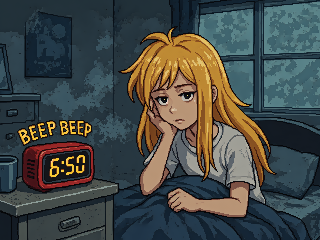
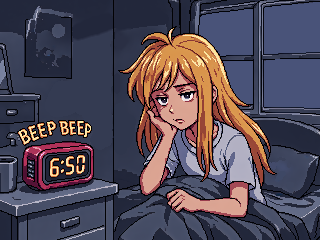
refactor: enhance dither functionality and add aperture support in rendering pipeline

diff --git a/src/bmsx/render/2d/sprites_pipeline.ts b/src/bmsx/render/2d/sprites_pipeline.ts
@@ -71,6 +71,7 @@ const spriteShaderData = {
 };
 let spriteShaderScaleLocation: WebGLUniformLocation;
 let spriteShaderDitherIntensityLocation: WebGLUniformLocation;
+let spriteShaderDitherEnabledLocation: WebGLUniformLocation;
 
 interface SpriteRuntime {
 	backend: WebGLBackend;
@@ -104,14 +105,17 @@ export function setupSpriteShaderLocations(backend: GPUBackend): void {
 	texture2Location = gl.getUniformLocation(spriteShaderProgram, 'u_texture2')!;
 	spriteShaderScaleLocation = gl.getUniformLocation(spriteShaderProgram, 'u_scale');
 	spriteShaderDitherIntensityLocation = gl.getUniformLocation(spriteShaderProgram, 'u_ditherIntensity')!;
+	spriteShaderDitherEnabledLocation = gl.getUniformLocation(spriteShaderProgram, 'u_ditherEnabled')!;
 }
 
-export function setupDefaultUniformValues(backend: WebGLBackend, defaultScale: number, canvasSize: vec2arr, ditherIntensity: number): void {
+export function setupDefaultUniformValues(backend: WebGLBackend, canvasSize: vec2arr): void {
 	const gl = backend.gl;
 	gl.useProgram(spriteShaderProgram);
-	gl.uniform1f(spriteShaderScaleLocation, defaultScale);
-	gl.uniform1f(spriteShaderDitherIntensityLocation, ditherIntensity);
-	spriteShaderData.resolutionVector.set([canvasSize[0], canvasSize[1]]);
+	gl.uniform1f(spriteShaderScaleLocation, 1);
+	gl.uniform1f(spriteShaderDitherIntensityLocation, 1);
+	gl.uniform1f(spriteShaderDitherEnabledLocation, 1);
+	spriteShaderData.resolutionVector[0] = canvasSize[0];
+	spriteShaderData.resolutionVector[1] = canvasSize[1];
 	gl.uniform2fv(resolutionLocation, spriteShaderData.resolutionVector);
 	gl.uniform1i(texture0Location, TEXTURE_UNIT_ATLAS);
 	gl.uniform1i(texture1Location, TEXTURE_UNIT_ATLAS_DYNAMIC);
@@ -168,15 +172,36 @@ export function renderSpriteBatch(runtime: SpriteRuntime, fbo: unknown, state: S
 	gl.blendFunc(gl.SRC_ALPHA, gl.ONE_MINUS_SRC_ALPHA);
 	gl.depthMask(false);
 	backend.bindVertexArray(spriteVAO as WebGLVertexArrayObject);
-	const baseScale = 1;
-	const ideScale = state.viewportTypeIde === 'viewport' ? baseScale : baseScale * (state.baseWidth / state.width);
-	setupDefaultUniformValues(backend, baseScale, [state.baseWidth, state.baseHeight], state.psxDither2dEnabled ? 1 : 0);
-	let currentScale = baseScale;
+
+	const program = gl.getParameter(gl.CURRENT_PROGRAM);
+
+	const u = (n: string) => gl.getUniformLocation(program, n);
+	const set1i = (n: string, v: number) => { const loc = u(n); gl.uniform1i(loc, v); };
+	const set1f = (n: string, v: number) => { const loc = u(n); gl.uniform1f(loc, v); };
+	// const set2f = (n: string, x: number, y: number) => { const loc = u(n); gl.uniform2f(loc, x, y); };
+
+	// Legacy fallback uniform for shader paths where FrameUniforms.u_logicalSize is not available.
+	spriteShaderData.resolutionVector[0] = state.baseWidth;
+	spriteShaderData.resolutionVector[1] = state.baseHeight;
+	gl.uniform2fv(resolutionLocation, spriteShaderData.resolutionVector);
+
+	const ideScale = state.viewportTypeIde === 'viewport' ? 1 : (state.baseWidth / state.width);
+	let currentScale = 1;
 	const setScale = (scale: number) => {
 		if (scale === currentScale) return;
-		gl.uniform1f(spriteShaderScaleLocation, scale);
+		set1f('u_scale', scale);
 		currentScale = scale;
 	};
+
+	// const opts = state.options;
+	// const booleans: Array<[string, boolean]> = [
+	// ];
+	// for (const [name, val] of booleans) gl.uniform1i(u(name), val ? 1 : 0);
+
+	set1i('u_ditherEnabled', state.psxDither2dEnabled ? 1 : 0);
+	set1f('u_ditherIntensity', state.psxDither2dIntensity);
+
+
 	if (state.atlasTex) {
 		context.activeTexUnit = TEXTURE_UNIT_ATLAS;
 		context.bind2DTex(state.atlasTex);
@@ -207,7 +232,7 @@ export function renderSpriteBatch(runtime: SpriteRuntime, fbo: unknown, state: S
 		i = 0;
 	};
 	forEachSprite(({ options, imgmeta }) => {
-		const desiredScale = options.layer === 'ide' ? ideScale : baseScale;
+		const desiredScale = options.layer === 'ide' ? ideScale : 1;
 		if (desiredScale !== currentScale) {
 			flush();
 			setScale(desiredScale);
@@ -253,7 +278,6 @@ export function drawImg(options: ImgRenderSubmission): void {
 	enqueueSprite(options, imgmeta);
 }
 
-export function getQueuedSpriteCount(): number { return spriteQueueBackSize(); }
 export function getSpriteQueueDebug(): { front: number; back: number } { return { front: spriteQueueFrontSize(), back: spriteQueueBackSize() }; }
 
 export function getTexCoords(flip_h: boolean, flip_v: boolean, imgmeta: ImgMeta): number[] {
@@ -354,12 +378,13 @@ export function registerSpritesPass_WebGL(registry: RenderPassLibrary): void {
 			const build = makePipelineBuildDesc('Sprites2D', vs, fs);
 			return { vsCode: build.vsCode, fsCode: build.fsCode, bindingLayout: build.bindingLayout };
 		})(),
-		bootstrap: (backend: WebGLBackend) => {
-			const webglBackend = backend;
-			setupSpriteShaderLocations(webglBackend);
-			setupBuffers(webglBackend);
-			setupSpriteLocations(webglBackend);
-		},
+			bootstrap: (backend: WebGLBackend) => {
+				const webglBackend = backend;
+				setupSpriteShaderLocations(webglBackend);
+				setupBuffers(webglBackend);
+				setupSpriteLocations(webglBackend);
+				setupDefaultUniformValues(backend, [$.view.viewportSize.x, $.view.viewportSize.y]);
+			},
 		writesDepth: true,
 		shouldExecute: () => true,
 		exec: (backend: WebGLBackend, fbo, state: SpritesPipelineState) => {
@@ -399,6 +424,7 @@ export function registerSpritesPass_WebGL(registry: RenderPassLibrary): void {
 				ambientIntensity,
 				viewportTypeIde: gv.viewportTypeIde,
 				psxDither2dEnabled: gv.psx_dither_2d_enabled,
+				psxDither2dIntensity: gv.psx_dither2d_intensity,
 			};
 			registry.setState('sprites', spriteState);
 			// Validate binding layout vs resources

diff --git a/src/bmsx/render/gameview.ts b/src/bmsx/render/gameview.ts
@@ -199,12 +199,14 @@ export class GameView implements RegisterablePersistent, RenderContext {
 	public applyBlur = true;
 	public applyGlow = true;
 	public applyFringing = true;
+	public applyAperture = true;
 	public noiseIntensity = 0.4;
 	public colorBleed: [number, number, number] = [0.02, 0.0, 0.0];
 	public blurIntensity = 0.6;
 	public glowColor: [number, number, number] = [0.12, 0.10, 0.09];
 	public crt_postprocessing_enabled = true; // Whether to apply postprocessing in the CRT-shader, such as scanlines, noise, glow, etc.
 	public psx_dither_2d_enabled = true;
+	public psx_dither2d_intensity = 1.0;
 	// public psx_dither_3d_enabled = false; TODO: JUST ADDED AND WE'LL USE IT LATER!
 
 	// Sprite ambient defaults (used when per-sprite override not provided)

diff --git a/src/bmsx/render/backend/renderpasslib.ts b/src/bmsx/render/backend/renderpasslib.ts
@@ -358,6 +358,7 @@ export class RenderPassLibrary {
 								applyBlur: !!gv.applyBlur,
 								applyGlow: !!gv.applyGlow,
 								applyFringing: !!gv.applyFringing,
+								applyAperture: !!gv.applyAperture,
 								noiseIntensity: gv.noiseIntensity,
 								colorBleed: gv.colorBleed,
 								blurIntensity: gv.blurIntensity,
@@ -369,6 +370,7 @@ export class RenderPassLibrary {
 								applyBlur: false,
 								applyGlow: false,
 								applyFringing: false,
+								applyAperture: false,
 								noiseIntensity: gv.noiseIntensity, // Will be unused
 								colorBleed: gv.colorBleed, // Will be unused
 								blurIntensity: gv.blurIntensity, // Will be unused

diff --git a/src/bmsx/render/post/crt_pipeline.ts b/src/bmsx/render/post/crt_pipeline.ts
@@ -81,7 +81,8 @@ function bindCRTUniforms(gl: WebGL2RenderingContext, state: RenderPassStateRegis
 		['u_applyScanlines', opts.applyScanlines],
 		['u_applyBlur', opts.applyBlur],
 		['u_applyGlow', opts.applyGlow],
-		['u_applyFringing', opts.applyFringing]
+		['u_applyFringing', opts.applyFringing],
+		['u_applyAperture', opts.applyAperture]
 	];
 	for (const [name, val] of booleans) gl.uniform1i(u(name), val ? 1 : 0);
 	set1f('u_noiseIntensity', opts.noiseIntensity);

diff --git a/src/bmsx/render/backend/pipeline_interfaces.ts b/src/bmsx/render/backend/pipeline_interfaces.ts
@@ -265,6 +265,7 @@ export interface SpritesPipelineState {
 	ambientIntensity: number;
 	viewportTypeIde: RenderingViewportType;
 	psxDither2dEnabled: boolean;
+	psxDither2dIntensity: number;
 }
 
 export interface CRTPipelineState {
@@ -282,6 +283,7 @@ export interface CRTPipelineState {
 		applyBlur: boolean;
 		applyGlow: boolean;
 		applyFringing: boolean;
+		applyAperture: boolean;
 		blurIntensity: number;
 		glowColor: [number, number, number];
 	};

diff --git a/src/bmsx/render/headless/headless_render_passes.ts b/src/bmsx/render/headless/headless_render_passes.ts
@@ -110,6 +110,7 @@ function makeSpriteState(): SpritesPipelineState {
 		ambientIntensity: 0,
 		viewportTypeIde: gv.viewportTypeIde,
 		psxDither2dEnabled: gv.psx_dither_2d_enabled,
+		psxDither2dIntensity: gv.psx_dither2d_intensity,
 	};
 }
 
